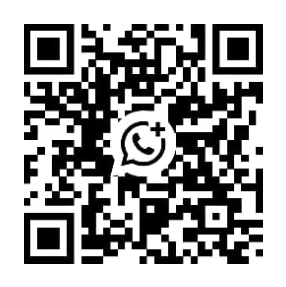
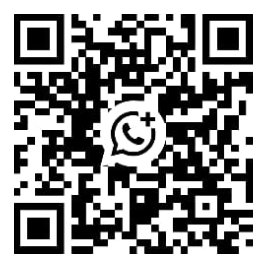
Fix QR code display for static export and show clean QR only without text

diff --git a/src/app/contact/page.tsx b/src/app/contact/page.tsx
@@ -1,5 +1,4 @@
 import type { Metadata } from "next";
-import Image from "next/image";
 import Link from "next/link";
 import { ButtonLink } from "@/components/ui/button-link";
 import { Container } from "@/components/ui/container";
@@ -113,17 +112,15 @@ export default function ContactPage() {
                 </div>
 
                 {qrImage && (
-                  <div className="flex flex-col items-center justify-center border border-border bg-white p-3 text-center sm:w-36 shrink-0">
-                    <Image
+                  <div className="flex items-center justify-center border border-border bg-white p-2.5 shrink-0 self-center sm:self-auto">
+                    {/* eslint-disable-next-line @next/next/no-img-element */}
+                    <img
                       src={qrImage}
-                      alt="WhatsApp QR Code to chat with Khai Space"
-                      width={112}
-                      height={112}
+                      alt="WhatsApp QR Code"
+                      width={120}
+                      height={120}
                       className="h-28 w-28 object-contain"
                     />
-                    <p className="mt-1.5 text-[10px] uppercase tracking-wider text-muted font-medium">
-                      Scan to chat
-                    </p>
                   </div>
                 )}
               </div>

diff --git a/next.config.ts b/next.config.ts
@@ -2,6 +2,9 @@ import type { NextConfig } from "next";
 
 const nextConfig: NextConfig = {
   output: "export",
+  images: {
+    unoptimized: true,
+  },
 };
 
 export default nextConfig;
